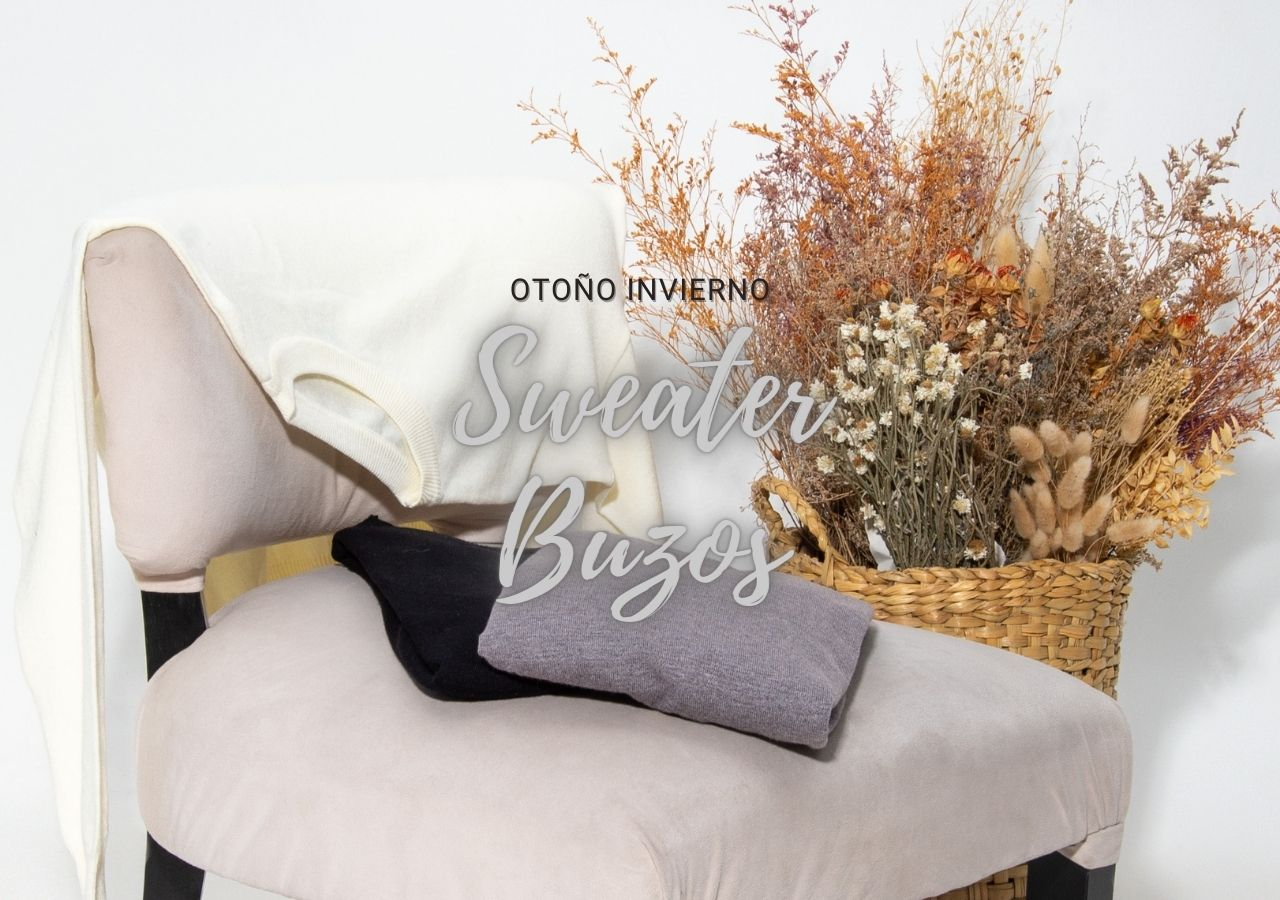
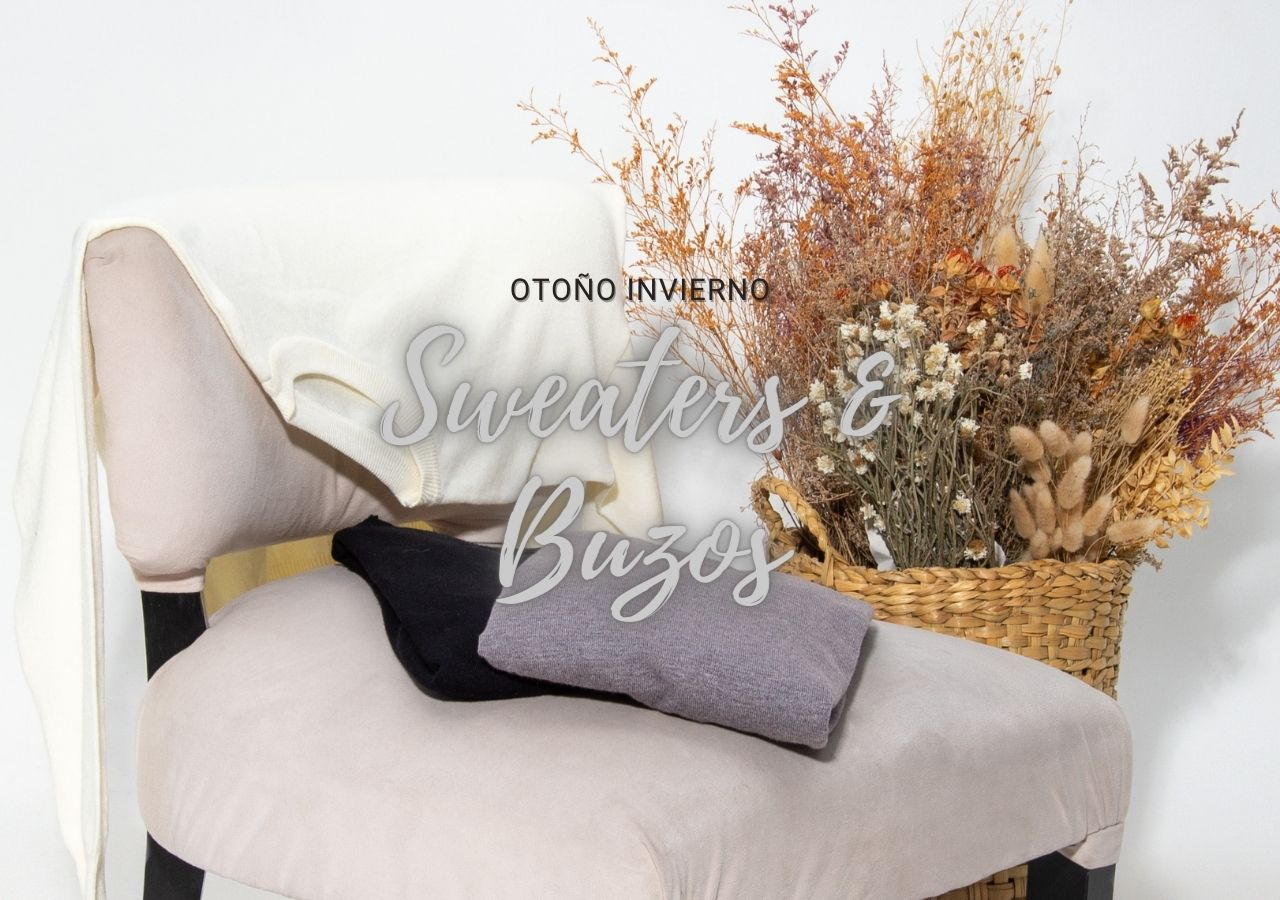
fotocategoria

Changed region(s): [[0.2812, 0.3422, 0.7188, 0.4978]]

diff --git a/index.html b/index.html
@@ -26,7 +26,7 @@
                         <li><a href="#">Inicio</a></li>
                         <li><a href="./pages/remeras.html">Remeras</a></li>
                         <li><a href="./pages/pantalones.html">Pantalones</a></li>
-                        <li><a href="./pages/sweater&buzos.html">Sweater&Buzos</a></li>
+                        <li><a href="./pages/sweater&buzos.html">Sweaters&Buzos</a></li>
                         <li><a href="./pages/camperas.html">Camperas</a></li>
                     </ul>
                 </div>
